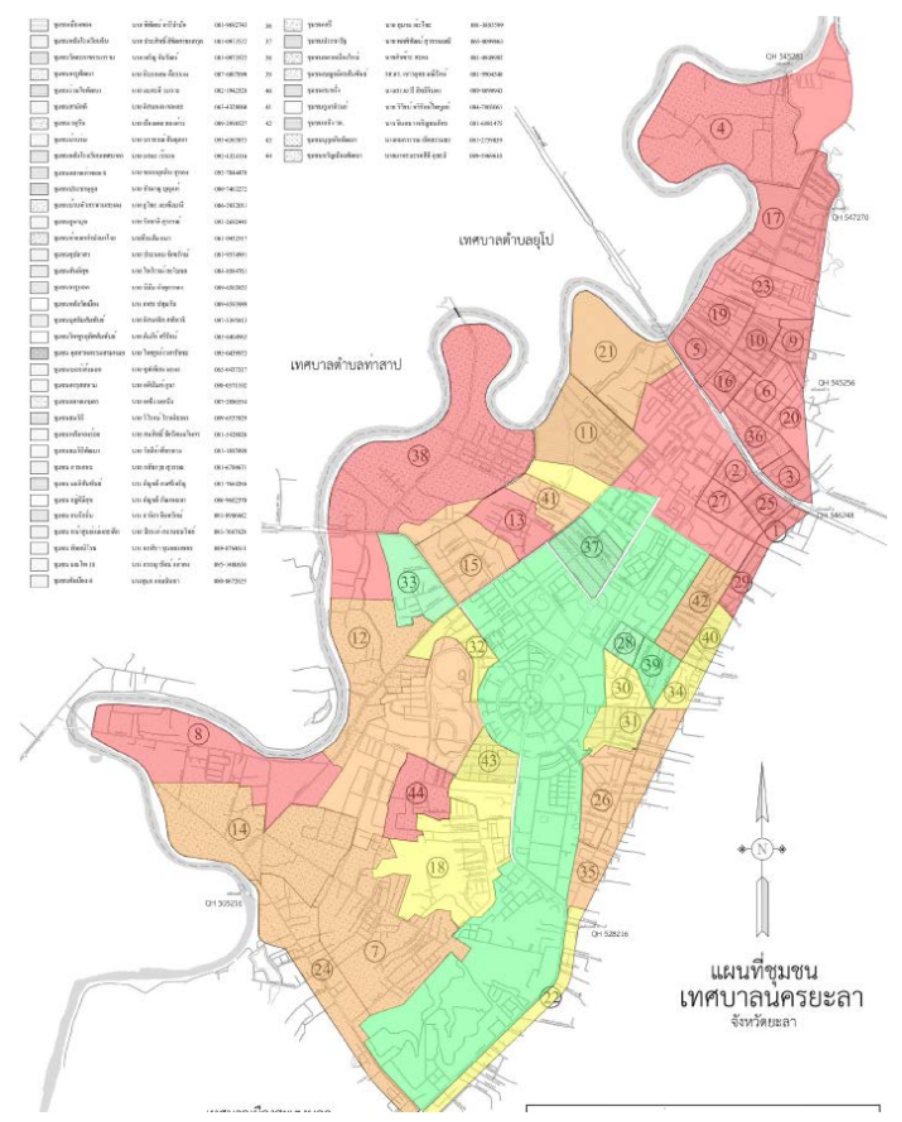
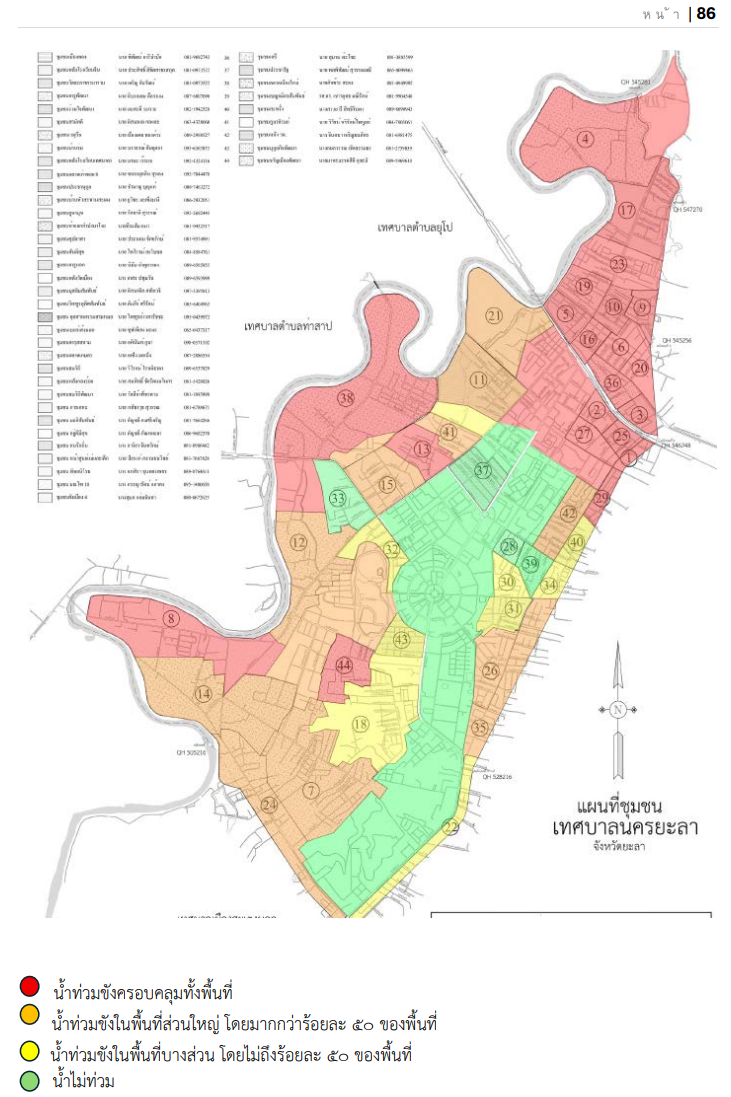
เพิ่มหน้าโหลด dashboard

diff --git a/web/src/pages/Dashboard.jsx b/web/src/pages/Dashboard.jsx
@@ -9,15 +9,27 @@ const PILL_MAP = {
 
 const FALLBACK_WEEK = [44, 66, 52, 92, 74, 58, 46].map((h, i) => ({ label: ['จ', 'อ', 'พ', 'พฤ', 'ศ', 'ส', 'อา'][i], height: h }));
 
+const TILE_META = [
+  { key: 'total', label: 'เคสทั้งหมด', color: '#122A4A' },
+  { key: 'pending', label: 'SOS รอดำเนินการ', color: 'var(--danger)' },
+  { key: 'inProgress', label: 'กำลังดำเนินการ', color: 'var(--amber)' },
+  { key: 'done', label: 'เสร็จสิ้น', color: 'var(--safe)' },
+];
+
 export default function Dashboard() {
   const [shown, setShown] = useState(5);
   const [cases, setCases] = useState(MOCK_DASH_CASES);
-  const [stats, setStats] = useState({ total: 128, pending: 14, inProgress: 37, done: 91, week: FALLBACK_WEEK });
+  const [stats, setStats] = useState({ total: 0, pending: 0, inProgress: 0, done: 0, week: FALLBACK_WEEK });
+  const [loading, setLoading] = useState(true);
 
   useEffect(() => {
     let alive = true;
-    fetchSosCases().then((rows) => { if (alive) setCases(rows); });
-    fetchDashboardStats().then((s) => { if (alive) setStats(s); });
+    Promise.all([fetchSosCases(), fetchDashboardStats()]).then(([rows, s]) => {
+      if (!alive) return;
+      setCases(rows);
+      setStats(s);
+      setLoading(false);
+    });
     return () => { alive = false; };
   }, []);
 
@@ -30,17 +42,21 @@ export default function Dashboard() {
     <main style={{ maxWidth: 1120, margin: '0 auto', padding: 'clamp(24px,4vw,44px) 20px 72px' }}>
       <div style={{ display: 'flex', flexWrap: 'wrap', gap: 12, alignItems: 'center', justifyContent: 'space-between', marginBottom: 6 }}>
         <h1 style={{ fontSize: 'clamp(23px,3.4vw,30px)' }}>Dashboard เทศบาล · ภาพรวมสถานการณ์</h1>
-        <div style={{ display: 'flex', alignItems: 'center', gap: 7, fontSize: 13.5, color: 'var(--safe)', fontWeight: 600 }}>
-          <span aria-hidden="true" style={{ width: 8, height: 8, borderRadius: '50%', background: 'var(--safe)', animation: 'softblink 1.5s infinite' }} /> เรียลไทม์ · เชื่อมฐานข้อมูลกลาง
+        <div style={{ display: 'flex', alignItems: 'center', gap: 7, fontSize: 13.5, color: loading ? '#8592A3' : 'var(--safe)', fontWeight: 600 }}>
+          <span aria-hidden="true" style={{ width: 8, height: 8, borderRadius: '50%', background: loading ? '#8592A3' : 'var(--safe)', animation: 'softblink 1.5s infinite' }} /> {loading ? 'กำลังโหลดข้อมูล…' : 'เรียลไทม์ · เชื่อมฐานข้อมูลกลาง'}
         </div>
       </div>
       <p style={{ color: '#52607A', fontSize: 15, margin: '0 0 24px' }}>มุมมองสำหรับเจ้าหน้าที่ รวมทุกบริการจากฐานข้อมูลกลางไว้ในหน้าจอเดียว</p>
 
       <div style={{ display: 'grid', gridTemplateColumns: 'repeat(auto-fit,minmax(150px,1fr))', gap: 12, marginBottom: 16 }}>
-        <div style={{ background: '#fff', border: '1px solid var(--line)', borderRadius: 14, padding: 18 }}><div style={{ fontFamily: "'IBM Plex Sans Thai'", fontSize: 28, fontWeight: 700, color: '#122A4A' }}>{stats.total}</div><div style={{ fontSize: 13.5, color: '#52607A' }}>เคสทั้งหมด</div></div>
-        <div style={{ background: '#fff', border: '1px solid var(--line)', borderRadius: 14, padding: 18 }}><div style={{ fontFamily: "'IBM Plex Sans Thai'", fontSize: 28, fontWeight: 700, color: 'var(--danger)' }}>{stats.pending}</div><div style={{ fontSize: 13.5, color: '#52607A' }}>SOS รอดำเนินการ</div></div>
-        <div style={{ background: '#fff', border: '1px solid var(--line)', borderRadius: 14, padding: 18 }}><div style={{ fontFamily: "'IBM Plex Sans Thai'", fontSize: 28, fontWeight: 700, color: 'var(--amber)' }}>{stats.inProgress}</div><div style={{ fontSize: 13.5, color: '#52607A' }}>กำลังดำเนินการ</div></div>
-        <div style={{ background: '#fff', border: '1px solid var(--line)', borderRadius: 14, padding: 18 }}><div style={{ fontFamily: "'IBM Plex Sans Thai'", fontSize: 28, fontWeight: 700, color: 'var(--safe)' }}>{stats.done}</div><div style={{ fontSize: 13.5, color: '#52607A' }}>เสร็จสิ้น</div></div>
+        {TILE_META.map((t) => (
+          <div key={t.key} style={{ background: '#fff', border: '1px solid var(--line)', borderRadius: 14, padding: 18 }}>
+            {loading
+              ? <div className="yh-skel" style={{ width: 56, height: 30, marginBottom: 6 }} />
+              : <div style={{ fontFamily: "'IBM Plex Sans Thai'", fontSize: 28, fontWeight: 700, color: t.color }}>{stats[t.key]}</div>}
+            <div style={{ fontSize: 13.5, color: '#52607A' }}>{t.label}</div>
+          </div>
+        ))}
       </div>
 
       <div style={{ display: 'flex', gap: 16, flexWrap: 'wrap' }}>
@@ -48,11 +64,13 @@ export default function Dashboard() {
           <h3 style={{ fontSize: 16, marginBottom: 16 }}>เคสรายวัน (7 วันล่าสุด)</h3>
           <div style={{ display: 'flex', alignItems: 'flex-end', gap: 10, height: 150 }}>
             {stats.week.map((d, i) => (
-              <div key={i} style={{ flex: 1, background: d.height === Math.max(...stats.week.map((x) => x.height)) ? 'var(--primary)' : 'var(--primary-soft)', borderRadius: '5px 5px 0 0', height: d.height + '%', transition: 'height .3s' }} />
+              loading
+                ? <div key={i} className="yh-skel" style={{ flex: 1, height: (30 + ((i * 37) % 55)) + '%', borderRadius: '5px 5px 0 0' }} />
+                : <div key={i} style={{ flex: 1, background: d.height === Math.max(...stats.week.map((x) => x.height)) ? 'var(--primary)' : 'var(--primary-soft)', borderRadius: '5px 5px 0 0', height: d.height + '%', transition: 'height .3s' }} />
             ))}
           </div>
           <div style={{ display: 'flex', gap: 10, marginTop: 8 }}>
-            {stats.week.map((d, i) => <span key={i} style={{ flex: 1, textAlign: 'center', fontSize: 12, color: '#8592A3' }}>{d.label}</span>)}
+            {stats.week.map((d, i) => <span key={i} style={{ flex: 1, textAlign: 'center', fontSize: 12, color: '#8592A3' }}>{loading ? '' : d.label}</span>)}
           </div>
         </div>
 
@@ -73,6 +91,18 @@ export default function Dashboard() {
 
       <div style={{ background: '#fff', border: '1px solid var(--line)', borderRadius: 16, padding: 22, marginTop: 16 }}>
         <h3 style={{ fontSize: 16, marginBottom: 16 }}>เคสล่าสุด</h3>
+        {loading ? (
+          <div style={{ display: 'flex', flexDirection: 'column', gap: 2 }}>
+            {[0, 1, 2, 3, 4].map((i) => (
+              <div key={i} style={{ display: 'flex', gap: 10, alignItems: 'center', padding: '13px 6px', borderBottom: '1px solid var(--line)' }}>
+                <div className="yh-skel" style={{ height: 13, flex: '0 0 84px' }} />
+                <div className="yh-skel" style={{ height: 13, flex: 1 }} />
+                <div className="yh-skel" style={{ height: 13, width: 70 }} />
+                <div className="yh-skel" style={{ height: 22, width: 92, borderRadius: 100 }} />
+              </div>
+            ))}
+          </div>
+        ) : (
         <div style={{ display: 'flex', flexDirection: 'column', gap: 2 }}>
           {rows.map((r) => {
             const [bg, color] = PILL_MAP[r.status];
@@ -86,7 +116,8 @@ export default function Dashboard() {
             );
           })}
         </div>
-        {hasMore && (
+        )}
+        {!loading && hasMore && (
           <button onClick={() => setShown((s) => s + 5)} style={{ marginTop: 14, width: '100%', background: '#fff', border: '1.5px solid var(--line)', color: 'var(--primary)', padding: 13, borderRadius: 11, fontWeight: 700, fontSize: 15, cursor: 'pointer', minHeight: 48 }}>
             โหลดเพิ่ม (เหลืออีก {remaining} รายการ)
           </button>

diff --git a/web/src/index.css b/web/src/index.css
@@ -54,6 +54,14 @@ input, textarea, select, button { font-family: inherit; }
 @keyframes popIn { 0% { opacity: 0; transform: scale(.9) translateY(8px); } 60% { transform: scale(1.02); } 100% { opacity: 1; transform: scale(1) translateY(0); } }
 @keyframes shieldGlow { 0%, 100% { box-shadow: 0 0 0 0 rgba(14, 138, 95, .35); } 50% { box-shadow: 0 0 0 6px rgba(14, 138, 95, 0); } }
 @keyframes starPop { 0% { transform: scale(.6) rotate(-12deg); } 70% { transform: scale(1.25) rotate(4deg); } 100% { transform: scale(1) rotate(0); } }
+@keyframes shimmer { 0% { background-position: -400px 0; } 100% { background-position: 400px 0; } }
+
+.yh-skel {
+  background: linear-gradient(90deg, #EEF2F7 0%, #F6F9FC 45%, #EEF2F7 90%);
+  background-size: 800px 100%;
+  animation: shimmer 1.25s linear infinite;
+  border-radius: 8px;
+}
 
 .yh-card { animation: popIn .4s cubic-bezier(.22, .61, .36, 1) both; transition: transform .18s ease, box-shadow .18s ease, border-color .18s ease; }
 .yh-card:hover { transform: translateY(-4px); box-shadow: 0 12px 28px rgba(16, 24, 40, .13); border-color: rgba(14, 131, 144, .4); }
@@ -90,6 +98,6 @@ a { transition: color .2s ease; }
 }
 
 @media (prefers-reduced-motion: reduce) {
-  .reveal, main, .pulse-red, .yh-card, .yh-verify, .yh-star-on { animation: none; }
+  .reveal, main, .pulse-red, .yh-card, .yh-verify, .yh-star-on, .yh-skel { animation: none; }
   button:hover, .yh-card:hover, .yh-star:hover { transform: none; }
 }
